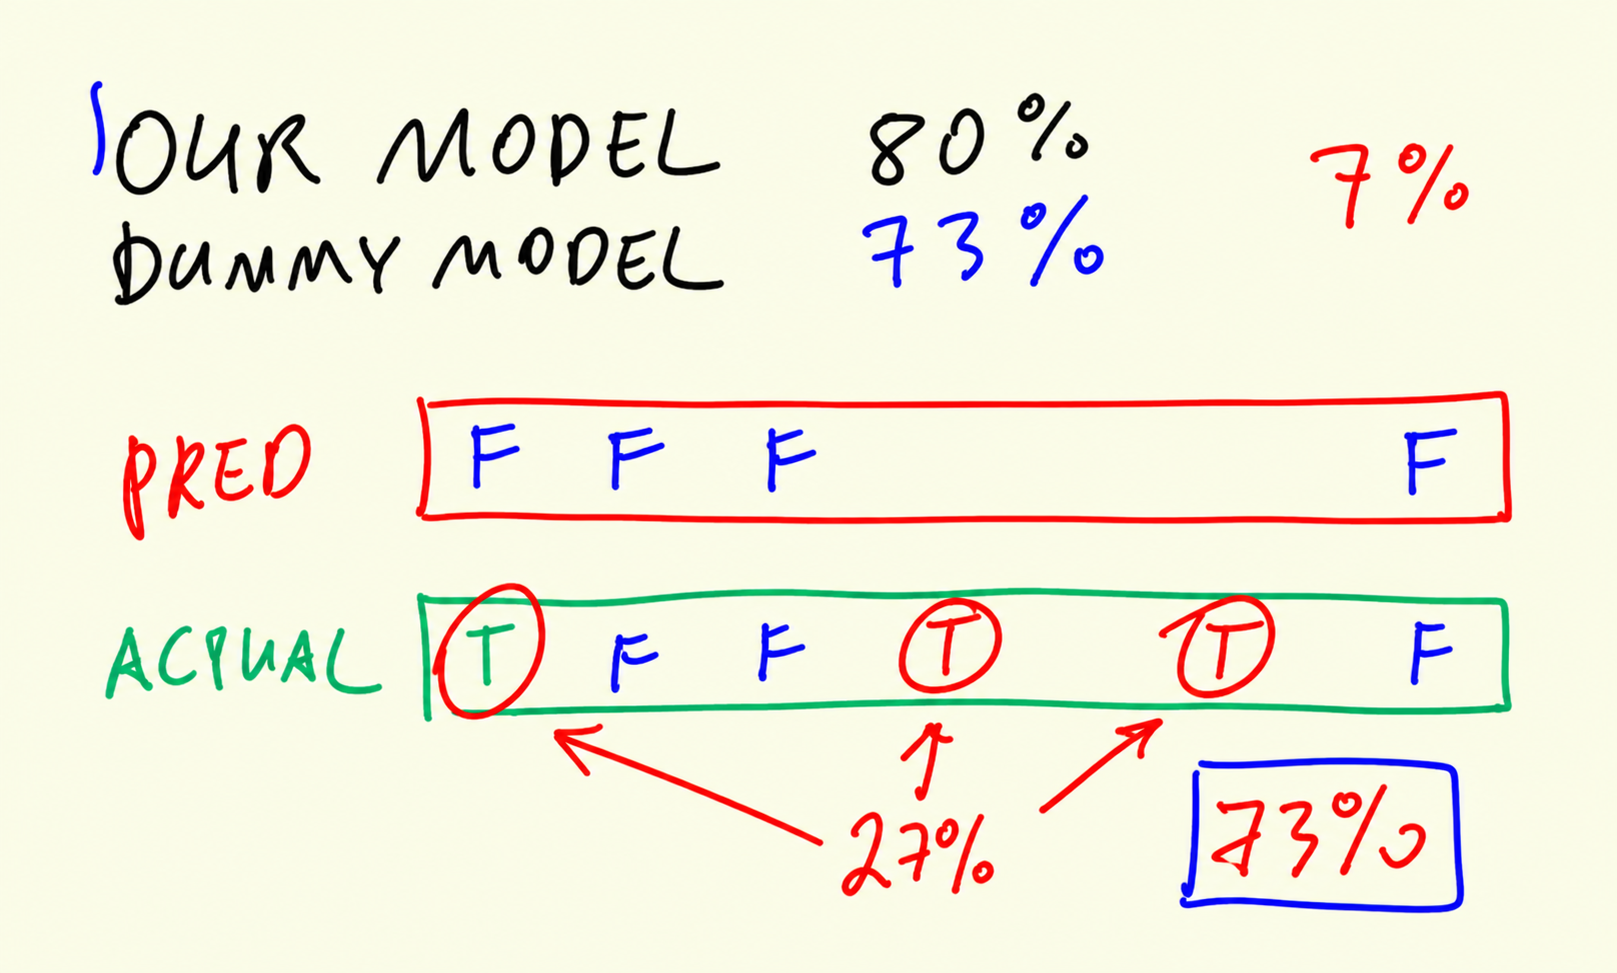
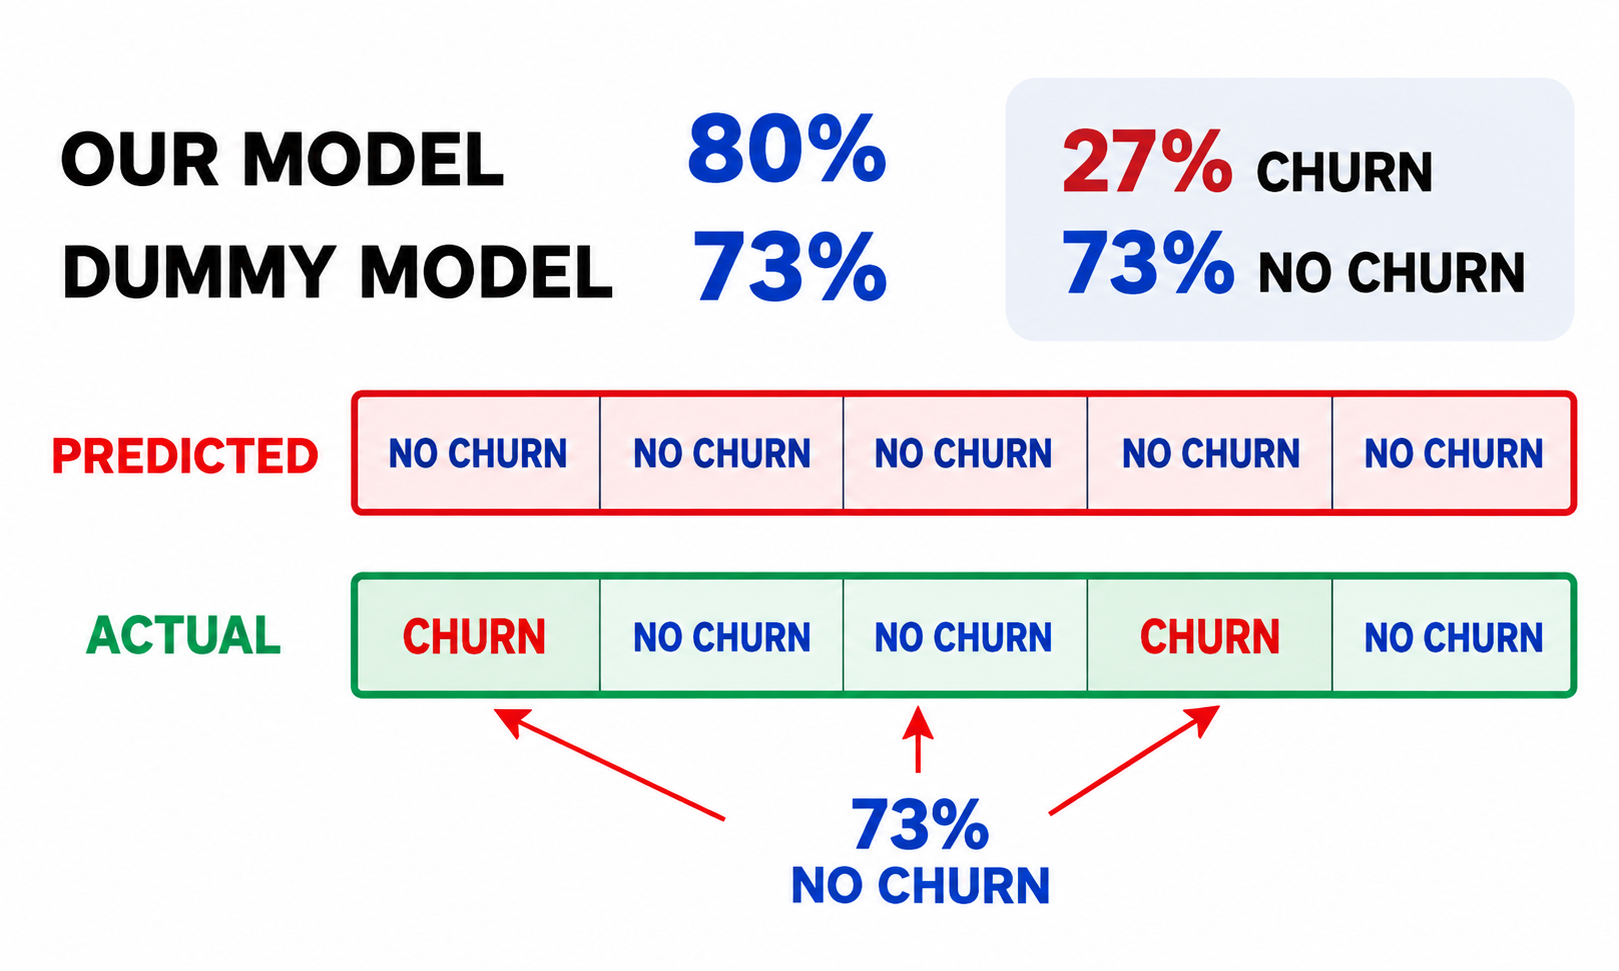
Regenerate first evaluation illustration batch

Changed region(s): [[0.0309, 0.587, 0.9895, 0.9578], [0.0309, 0.0927, 0.9586, 0.309], [0.0309, 0.4016, 0.9895, 0.5561]]

diff --git a/cohorts/2026/04-evaluation/images/2026-09-09-evaluation-batch-1-provenance.md b/cohorts/2026/04-evaluation/images/2026-09-09-evaluation-batch-1-provenance.md
@@ -1,0 +1,41 @@
+# Evaluation illustration redraw batch 1 — 2026-09-09
+
+This ledger covers only these three active references:
+
+- `01-overview-02-churn-scenario-crisp.png`
+- `02-accuracy-08-class-imbalance-crisp.png`
+- `03-confusion-table-01-four-outcomes-crisp.png`
+
+The original non-crisp JPGs remain unchanged. Each output was generated with
+imagegen using the original JPG and the tracked bounded crop as references. The
+crop removes the recording border and webcam area; the generation prompt also
+required removal of any cursor, color-wheel control, handwriting, and other
+capture artifacts. No enlargement, sharpening, or screenshot tracing was used.
+
+## Reproducible crops
+
+Run `2026-09-09-evaluation-batch-1-crops.sh` from this directory. The script
+uses ImageMagick `convert`, JPEG quality 92, and `2x2,1x1,1x1` sampling.
+
+| Source JPG | Crop coordinates `(x,y,w,h)` | Tracked crop |
+|---|---:|---|
+| `01-overview-02-churn-scenario.jpg` | `(27,0,478,360)` | `01-overview-02-churn-scenario-imagegen-crop.jpg` |
+| `02-accuracy-08-class-imbalance.jpg` | `(27,0,478,360)` | `02-accuracy-08-class-imbalance-imagegen-crop.jpg` |
+| `03-confusion-table-01-four-outcomes.jpg` | `(27,80,523,280)` | `03-confusion-table-01-four-outcomes-imagegen-crop.jpg` |
+
+## Hashes and validation
+
+| Asset | Original JPG SHA-256 | Crop SHA-256 | Output PNG SHA-256 | Native / 608px render |
+|---|---|---|---|---|
[3 lines of base64/hex data omitted]
+
+All three PNGs contain C2PA metadata with `gpt-image` and `OpenAI Media
+Service` markers. Native and simulated 608px inspections confirmed readable
+labels, complete compositions, exact percentages/scores, and no webcam,
+browser, cursor, overlay, or simple-upscale artifacts.
+
+The three outputs are a completed focused batch, not a repository-wide
+crispness approval. The remaining worker-owned references are listed in the
+task checkpoint and must be processed separately.
